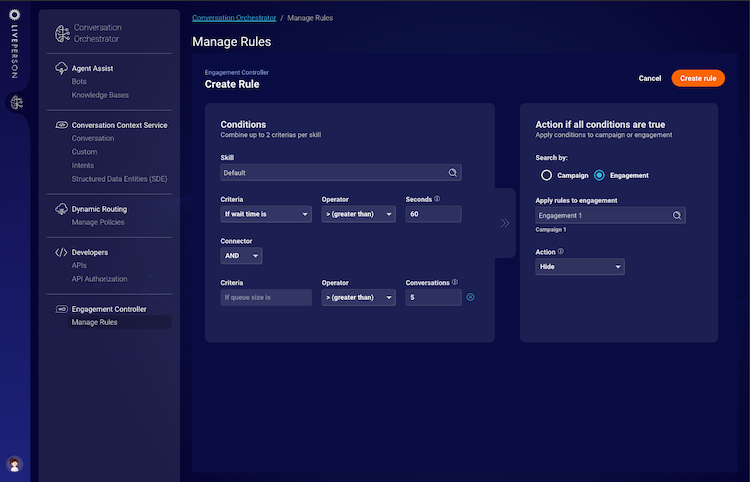
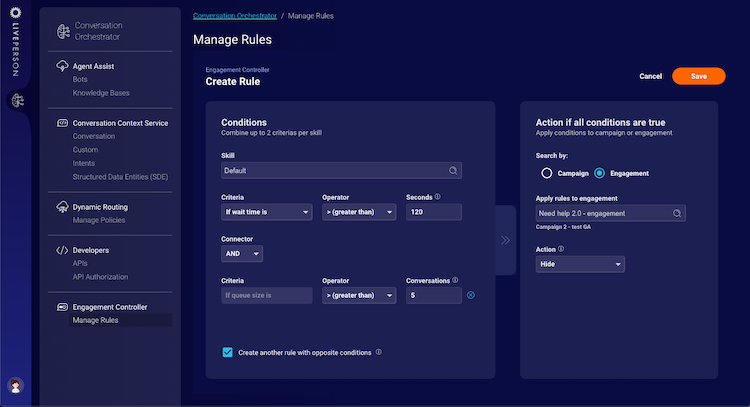
updated entire EC article and images for Edna

diff --git a/pages/documents/Bots & Automation/Maven/Engagement-Controller.md b/pages/documents/Bots & Automation/Maven/Engagement-Controller.md
@@ -13,121 +13,125 @@ published: true
 
 ---
 
-## What is Engagement Controller
+The Engagement Controller is a feature within Conversation Orchestrator that enables brands to control the incoming flow of conversations in Web Messaging by showing and hiding engagements from the website according to a defined threshold for a skill.
 
-The Engagement Controller is a feature within Conversation Orchestrator that enables brands to control the incoming flow of conversations in Web Messaging by showing and hiding engagements from the website depending on a defined threshold for a skill. 
+This feature is an addition to the existing Campaign Builder settings. It allows brands to use welcome bots to start conversations, and to control ‘showing’ or ‘hiding’ Web Messaging engagements based on skill availability. Campaign Builder settings such as ‘enable’ or ‘disable’ engagements or Campaign time frame will have priority over Engagement Controller settings.
 
-This feature is in addition to the existing Campaign Builder settings. It allows brands to use welcome bots to start conversations, and to control showing or hiding Web Messaging engagements based on skill availability. Campaign Builder settings such as enable or disable engagements or Campaign time frame will have priority over Engagement Controller settings.
+<p class="notice">In the Manager Workspace, you may notice that metrics such as ‘queue size’ or ‘wait time’ might go beyond the set threshold in the Engagement Controller.</p>
+There are several reasons why you might observe more conversations in the queue, including: 
+* Transfers from other skills, such as a welcome bot skill or another human agent skill, can happen even after the engagement window is hidden from the website.
+* Visitors who have already loaded the page when the EC rule was applied can start a conversation at any time, even if the engagement is already hidden for other users who load the page after the rule is applied.
+* Rules will only apply if an agent is online and has been assigned in the last 60 minutes.
 
-## Creating Rules
-Users can set up rules with conditions that check agent skill availability based on queue size and/or wait time metrics, to enable actions to show or hide engagements. Thresholds of rules are checked every 10 seconds and will trigger an action to show or hide an engagement from a website accordingly. 
+Therefore, we recommend considering the following points when setting the threshold:
+* What is the bot journey duration before the bot can transfer the conversation to the human skill which has a rule set up in EC? 
+* How likely is it that the bot will transfer over to the human skill eventually?
+* Setting the threshold to hide the engagement higher than the value to show the engagement will provide some buffer for additional conversations coming in after the engagement was hidden from the website.
 
-Note: Rules should be established in pairs. One rule to hide an engagement or campaign and another rule to show the engagement or campaign again. When first activated, it can take up to 5 minutes before a rule is applied.
+
+## Create Rules
+In order to enable actions that will ‘show’ or' ‘hide’ engagements, users can set up rules with conditions that check agent skill availability based on queue size and/or wait time metrics.  The rules’ thresholds are checked every 10 seconds and will trigger an action to show or hide an engagement from a website accordingly. 
+
+Note: Rules should be established in pairs. One rule to hide an engagement or campaign, and another rule to show the engagement or campaign again. When first activated, it can take up to 5 minutes before a rule is applied.
 
 ![](img/EC-image1.png)
 
 ## Skill
 
-In most cases, the reason to set up a rule with the Engagement Controller is to only show an engagement on a website if the group of human agents (skill) the conversation would be transferred to are available. Hence, the skill set in Engagement Controller rules should be of the human skill who have limited availability. 
-This setting is independent of the skill setting in the engagement in Campaign Builder. The setting in Campaign Builder will determine where the conversation is routed to. It will thereby determine which skill will pick up the conversation in case the engagement is shown and clicked on by the customer on the website. This separation between availability checking and routing the initial conversation allows the use of welcome bots with the Engagement Controller feature.
+Setting up a rule with the Engagement Controller is mostly used to show an engagement on a website only if the group of human agents (skill) that the conversation would be transferred to are available at that time.
+This setting is independent of the ‘skill’ setting in the engagement in the Campaign Builder. The setting in the Campaign Builder will determine where the conversation is routed to. It will thereby determine which skill will pick up the conversation in case the engagement is shown and clicked on by the customer on the website. This separation between checking availability and routing the initial conversation allows the use of welcome bots with the Engagement Controller feature.
+
 
 ## Criteria
 
-* **Queue Size:** Number of conversations waiting in queue for a skill - input value in number of conversations.
-* **Wait Time:** Average of the last 60 minutes the consumer has been waiting for an agent to be assigned to the conversation - input value in seconds.
+You can set up rules using the following criteria: 
+* **Queue Size:** The number of conversations waiting in the queue for a skill. 
+    * **Input value:** The number of conversations. Note: an agent with the skill needs to be online for the metric to be transmitted.
+* **Wait Time:**  The average wait time for the different visitors from the last 60 minutes, who have been waiting for an agent to be assigned to the conversation. Input value: Time in seconds. Please note that the wait time is calculated differently than the wait time displayed on the Manager Dashboard.
 
-Note: We recommend to use the wait time metric only in combination with queue size due to the different factors which could influence the wait time calculation.
-If rules are set up at a Brands campaign and associated engagement with different criteria (queue size and wait time), the queue size rule will take precedence over the wait time rule.
+Note: We recommend using the wait time metric only when combined with the queue size metric due to the different factors which could influence the wait time calculation.
+If rules are set up for a Brand’s campaign as well as for the associated engagement with different criteria (queue size and wait time), the queue size rule will take precedence over the wait time rule.
 
 ## Operator and Value
 
-The Engagement Controller offers two operators to set up rules. These are greater than and smaller than. Values for thresholds such as queue size or number of conversations have to be above zero.
+The Engagement Controller offers two operators to set up rules: greater than and smaller than. Values for thresholds such as ‘queue size’ or ‘number of conversations’ have to be above zero.
  
-Example of setting a rule with threshold 1
-Hide Campaign1 if queue size < 1
+Please refer to the following example of setting a rule with a threshold of 1:  
+Hide Campaign1 if queue size < 1  
 Show Campaign1 if queue size > 1
 
-The rule will apply to hide the engagement window when the value is zero or show the engagement when the value is greater than two. In this example the rule will not be applied if the value is equal to one.
+The rule will apply to either hide the engagement window when the value is zero or to show the engagement when the value is greater than two. In this example, the rule will not be applied if the value is equal to one.
 
 ## AND / OR - Connectors
 
-You can combine two criterias in the same rule by selecting one of our available AND or OR connectors. Select OR if you want at least one of the criterias thresholds to be reached in order for the rule to be applied to the engagement window. Select AND if you want both thresholds to be met in order for the rule to be applied.
+You can combine two criteria in the same rule by selecting one of our available AND or OR connectors. Select OR if you want at least one of the criteria thresholds to be reached in order for the rule to be applied to the engagement window. Select AND if you want both thresholds to be met in order for the rule to be applied.
 
 ## Target and Action
 
-Rules can be set to target campaigns or engagements. Rules at a campaign level will affect all engagements in that campaign. Rules on the engagement level have higher priority over the campaign level. If the Engagement Controller has a rule defined on an engagement, and a rule exists on the campaign for the engagement, the engagement rule will take precedence.
+Rules can be set to target campaigns or engagements. Rules at a campaign level will affect all engagements in that campaign. Rules on the engagement level have higher priority over the campaign level. If the Engagement Controller has a rule defined on an engagement, and a rule already exists on the campaign for that engagement, the engagement rule will take precedence.
 
-In Campaign Builder Campaign time frame or a filter for a certain target audience allows to show or hide engagements. In this context Engagement Controller offers a dynamic control of the incoming flow of messaging conversation, It is constantly, every 10 seconds,  checking activated rules with thresholds against current values of metrics. When thresholds are reached an action such as hiding or showing an engagement from a website will be performed.
-Hence, rules should be applied in pairs. One rule to hide an engagement or campaign when a threshold is reached and another rule to show the engagement or campaign again. 
-When first activated, it can take up to 5 minutes before a rule is applied.
+In the Campaign Builder,  it is possible to show or hide engagements using the Campaign time frame or a filter for a certain target audience. In this context, the Engagement Controller offers dynamic control of the incoming flow of messaging conversations. It consistently checks the activated rules with thresholds against current metric values every ten seconds. When thresholds are reached, an action such as ‘hiding’ or ‘showing’ an engagement from a website will be performed.
+Hence, rules should be applied in pairs. One rule to hide an engagement or campaign when a threshold is reached, and another rule to show the engagement or campaign again. 
+When first activated, it can take up to five minutes before a rule is applied.
 
 ## Validation
 
-The Engagement Controller feature runs a validation in the background. This avoids defining rules for the same engagement or the same campaign with overlapping value spaces, metrics or skill settings which do not have a unique evaluation of the action to show or hide an engagement on a website.
-Rules on the engagement level have higher priority over the campaign level. If the Engagement Controller has a rule defined on an engagement, and a rule exists on the campaign for the engagement, the engagement rule will take precedence.
+The Engagement Controller feature runs a validation check in the background. This avoids defining rules for the same engagement or the same campaign with overlapping value spaces, metrics or skill settings which do not have a unique evaluation of the action to ‘show’ or ‘hide’ an engagement on a website.
+Rules on the engagement level have higher priority over the campaign level. If the Engagement Controller has a rule defined on an engagement, and a rule exists on the campaign for that engagement, the engagement rule will take precedence.
 If rules are set up within a brand's campaign and associated engagement that have different criteria (queue size, wait time), queue size will take priority.
-The validation will allow to set up rules which target the same engagement or the same campaign to show or hide with checking against one skill.
 
-Example of rules with the same target (engagement or campaign), opposite actions (show or hide) and overlapping value space:
+The following examples showcase rules with the same target (engagement or campaign), opposite actions (show or hide) and overlapping value space:
 
 ### Example 1:
-Hide Engagement1 if queue size > 5 
-Show Engagement1 if queue size < 11
+Hide Engagement1 if queue size > 5  
+Show Engagement1 if queue size < 11  
 Potential for conflict because of overlapping values 6-10
 
 ### Example 2: 
-Show Campaign1 if queue size < 20
-Hide Campaign1 if queue size > 10
+Show Campaign1 if queue size < 20  
+Hide Campaign1 if queue size > 10  
 Potential for conflict because of overlapping values 11-19
 
 ### Example 3:
-Show Campaign1 queue size < 10 for Skill1
-Hide Campaign1 queue size > 10 for Skill2
+Show Campaign1 queue size < 10 for Skill1  
+Hide Campaign1 queue size > 10 for Skill2  
 Potential for conflict because more than one skill, value 11 for Skill1 and value 12 for Skill2
 
-Checklist when you encounter conflicts on setting up (create view) or trying to activate (list view) a rule:
-* When you have a rule to hide the engagement, do you also have a rule to show it again? Rules should always be established in pairs. One rule to show the engagement window and one rule to hide the engagement window.  
+**Troubleshooting Checklist**  
+If you encounter any  issues during the ‘create view’ setup or when trying to activate ‘list view’, please reference this checklist:
+* When you have a rule to hide the engagement, do you also have a rule to show it again? Rules should always be established in pairs. One rule to show the engagement window and one rule to hide the engagement window.
 * Which other rule also targets the same engagement?
 * Do the rules that target the same engagement differ in action (show, hide)?
-*  Do the rules that target the same engagement differ in action (show, hide) and have overlapping value space, e.g. greater than 5 and smaller than 10?
-* In case rules are defined for the same engagement the queue size criteria will have higher priority over the rule with the wait time criteria.
+* Do the rules that target the same engagement differ in action (show, hide) and have an overlapping value space, e.g. greater than five and smaller than ten?
+* When multiple rules are defined for the same engagement, the queue size criteria will have higher priority over the rule with the wait time criteria.
 
 ## Manage Rules
 
-![](img/EC-image2 .png)
+![](img/EC-image2.png)
 
 ## Status Active / Inactive
 
-New rules are always listed at the top of the rules list. They are inactive by default. By turning on the status toggle, the rule will be applied to the associated campaign or engagement and will execute the action based on the defined condition(s). 
+New rules are always listed at the top of the rules list and are inactive by default. By turning on the status toggle, the rule will be applied to the associated campaign or engagement and will execute the action based on the defined condition(s). 
 
-Note: after activation it can take up to 5 minutes for the rule to apply the action on the engagement window. Post activation, the system checks and applies the set criteria(s) every 10 seconds.
+Note: After activation, it can take up to five minutes for the rule to apply the action to the engagement window. Post activation, the system checks and applies the set criteria every ten seconds.
 
 ## Edit / Delete / Archive rules
 
-You cannot edit a rule once it is created. If you would like to make changes to an existing rule in Engagement Controller you may delete or archive a deactivated rule and create a new rule using the same criteria. Rules which have been previously activated cannot be deleted. 
-
-* If a rule has never been activated, you can delete it from the rules list by clicking on the Delete icon. 
-* If a rule is active, it cannot be archived. Active rules can only be deactivated.
-* If a rule has been deactivated, you can remove it from the list of rules by moving it to Archives.
+If you would like to make changes to a rule in the Engagement Controller, you first need to deactivate the rule. Then, the system will archive the old rule and create a new rule with the changes you have made. Rules which have been previously activated cannot be deleted, but they can be archived which removes them from the list. If a rule has never been activated, you can delete it from the rules list by clicking on the ‘Delete’ icon. If a rule is active, it cannot be archived. Active rules can only be deactivated.
 
 ## Pause all rules
 
-The Pause all rules button in the Engagement Controller feature is helpful when you first set up rules, when you would like to maintain rules, or when you change settings in Campaign Builder. When paused, all rules in the Engagement Controller feature are paused. This will stop any rule in Engagement Controller from taking action on engagement windows targeted by an active rule in Engagement Controller. While the feature is paused the engagement windows will only react according to manual settings in Campaign Builder.
-When restarting the Engagement Controller feature again all rules will have the same activation status as before pausing all rules. 
+The ‘Pause all rules’ button in the Engagement Controller feature is helpful when you first set up rules, when you would like to maintain rules, or when you change the settings in the Campaign Builder. When paused, all rules in the Engagement Controller feature are paused. This will stop any rule in the Engagement Controller from taking action on engagement windows targeted by an active rule in Engagement Controller. While the feature is paused, the engagement windows will only react according to manual settings in the Campaign Builder.
+When restarting the Engagement Controller feature again, all rules will have the same activation status as before pausing all rules. 
 
-{: .notice}
-After usage of Pause all rules button it can take up to 5 minutes for the change to apply on the engagement window.
+Note: After using the ‘Pause all rules’ button, it can take up to five minutes for the change to apply to the engagement window.
  
 ## Engagement Controller Limitations
 
-* You might observe in the Manager Workspace that metrics such as queue size or wait time might go beyond the set threshold in Engagement Controller.
-If visitors have already loaded the page before the rule applies they will be able to start a conversation.
-* Using Engagement Controller in Web Messaging can create a synchronous, chat-like experience with limited wait times for some customers by hiding the engagement if no agent is available. In this case, it doesn’t allow for the advantages of an asynchronous messaging journey to always be available to all customers.
-* When assigning conversations to agents, it is possible that certain skills will have no online agents that can receive the conversation and therefore a fallback skill can be assigned. The Engagement Controller feature does not consider settings in the fallback skill when checking for availability.
-* Conversational Cloud functionality to auto close inactive conversations after a set period of time (default 90 days) work independently of the Engagement Controller feature. Inactive conversations closed by the auto close functionality are not displayed to a returning customer if a rule in the Engagement Controller is applied to hide the engagement window.
+* In the Manager Workspace,you may observe that metrics such as queue size or wait time might go beyond the set threshold in the Engagement Controller. The Engagement Controller is set up to apply an action to either show or hide an engagement from a website when a threshold is reached. This action is performed for all websites which are loaded after the rule was applied. If visitors have already loaded the page before the rule was applied, they will be able to start a conversation.
+* Using the Engagement Controller in Web Messaging can create a synchronous, chat-like experience with limited wait times for some customers by hiding the engagement if no agent is available. In this case, it doesn’t allow for the advantages of an asynchronous messaging journey to always be available to all customers.
+* When assigning conversations to agents, it is possible that certain skills will have no online agents that can receive the conversation and therefore a ‘fallback skill’ can be assigned. The Engagement Controller feature does not consider settings in the fallback skill when checking for availability.
+* The Conversational Cloud functionality to automatically close inactive conversations after a set period of time (90 days by default) works independently of the Engagement Controller feature. Inactive conversations closed by the auto close functionality are not displayed to a returning customer if a rule in the Engagement Controller is applied to hide the engagement window.
 * The Engagement Controller interface is currently available in English only. Other languages will be added in the future.
-* The Engagement Controller interface is currently available in the Dark theme only. Light theme will be added in the future.
-* Engagement Controller allows you to use a welcome bot in the engagement set up in Campaign Builder. The feature will check the availability of one human skill per rule. The feature does not support checking the availability of multiple skills throughout an entire bot journey. This functionality will be added in the future.
-
-{: .notice}
-The Engagement Controller feature may not work if the website is set up as a Single Page Application. When the threshold is reached rules with actions such as to show or hide an Engagement will apply for all websites that have been loaded afterwards. This doesn’t apply to Single Page Applications as they usually don’t reload.
+* The Engagement Controller interface is currently available in a ‘Dark’ theme only. A ‘Light’ theme will be added in the future.
+* The Engagement Controller allows you to use a welcome bot for the engagement setup in the Campaign Builder. The feature will check the availability of one human skill per rule, but it does not support checking the availability of multiple skills throughout an entire bot journey. This functionality will be supported in the future.
